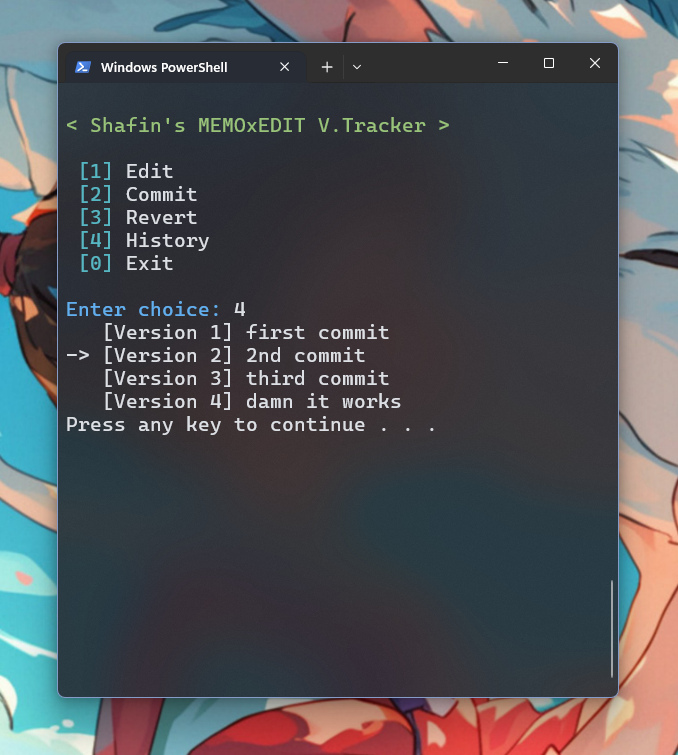
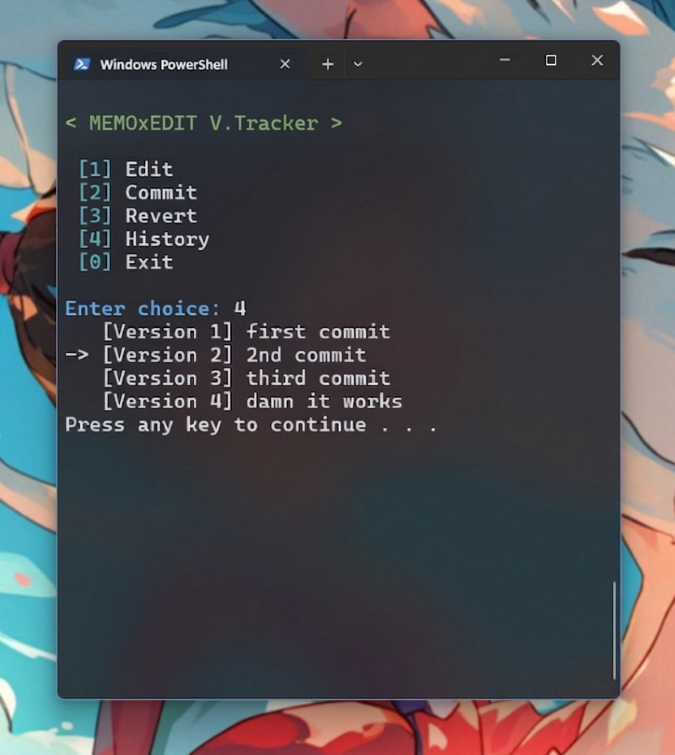
change for project report

diff --git a/memo-editor.cpp b/memo-editor.cpp
@@ -365,7 +365,7 @@ int main(){
         clearScreen();
 
         cout << "\n";
-        cout << GREEN << "< Shafin's MEMOxEDIT V.Tracker >\n\n" << RESET;
+        cout << GREEN << "< MEMOxEDIT V.Tracker >\n\n" << RESET;
         cout << CYAN << " [1] " << RESET << "Edit\n";
         cout << CYAN << " [2] " << RESET << "Commit\n";
         cout << CYAN << " [3] " << RESET << "Revert\n";
